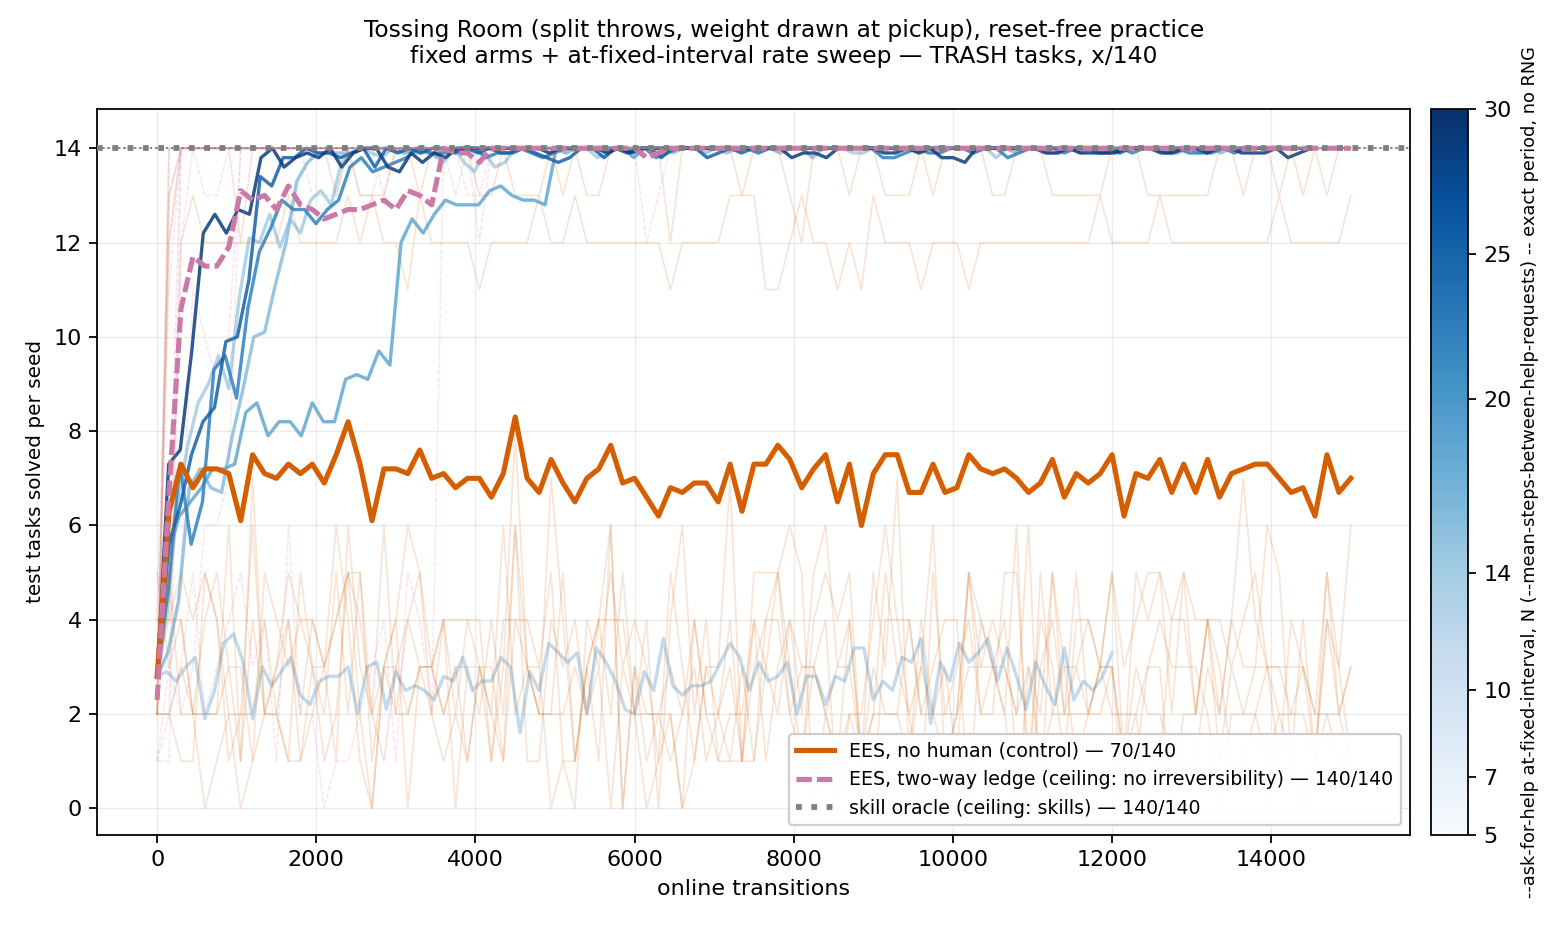
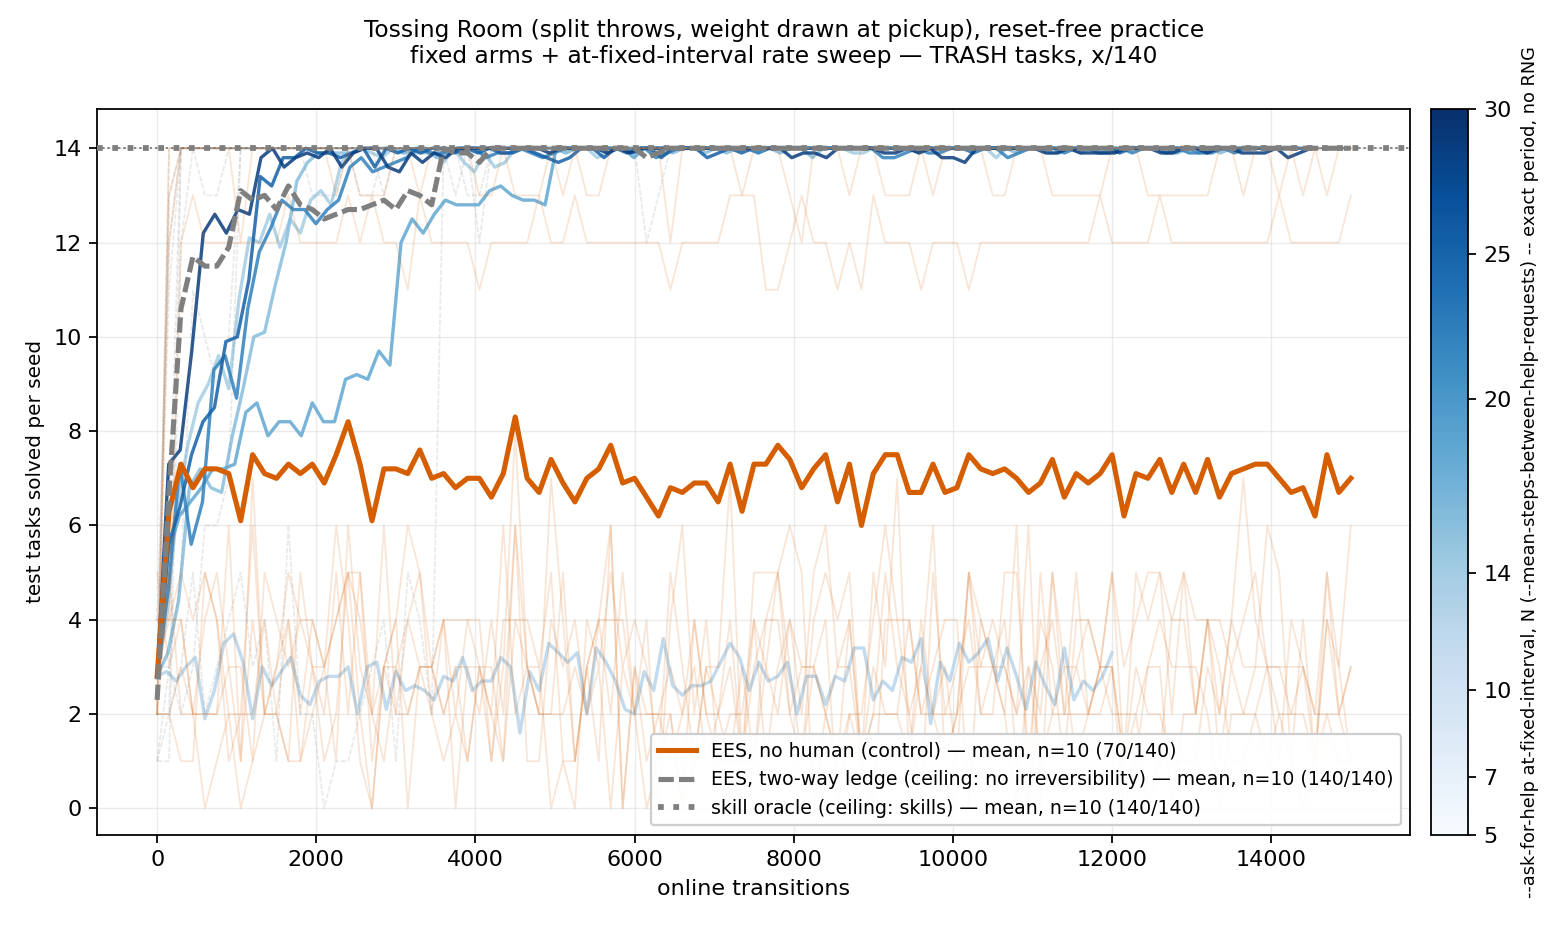
Fix two training-curve style deviations on the three fixed-interval panels
Both were inherited unchanged from #195's own human_ladder_curves.py, not introduced
here; Josh audited this PR's figures against CLAUDE.md's training-curve-style section
and asked for them fixed here (not on #195, whose published figures stay untouched).

1. two-way-ledge used a fourth hue (magenta) -- CLAUDE.md: "do not introduce a fourth
   hue; encode a second axis with linestyle instead", no stated carve-out for a ceiling
   arm that still learns. Fixed: two-way-ledge is now grey, matching skill-oracle,
   distinguished by its own dash pattern rather than a colour. Still drawn as a real
   curve, not flattened -- only the hue changed.
2. Fixed-arm legend entries showed the final score where CLAUDE.md's own example format
   asks for the seed count ("mean, n=10"). Fixed to "mean, n=10 (score)".

Scoped to overall/TRASH/RECYCLING only -- the dose-response and per-N-trajectory
figures don't carry two-way-ledge or the score-only legend pattern and regenerate
byte-identical, confirmed by diff.

Claude-Session: https://claude.ai/code/session_01YX4kv9fLBKzvmm3w25BvHF

diff --git a/analysis/practice_makes_perfect/human_ladder_curves.py b/analysis/practice_makes_perfect/human_ladder_curves.py
@@ -57,10 +57,15 @@ precedent #195's own module used.
 **Non-learners are drawn flat, not as curves.** `skill-oracle` never practises (no
 `--num-cycles` flag exists for it) and has a single evaluation checkpoint, so it is a
 horizontal reference line. `no-human` and `two-way-ledge` both learn and get real curves;
-`two-way-ledge` gets its own colour rather than the blue/orange assistance-axis pair, because
-it is a ceiling on the WORLD (irreversibility removed), not a "does an assistance mechanism
-exist" arm -- the same reasoning CLAUDE.md's colour rule already carves out for
-`skill-oracle`/`random-skills`.
+`two-way-ledge` is grey, matching `skill-oracle`, because it IS a ceiling arm in CLAUDE.md's
+sense (not the manipulation under test -- it removes irreversibility from the world, not
+"does an assistance mechanism exist"), distinguished from `skill-oracle` by linestyle rather
+than a fourth hue (CLAUDE.md: "do not introduce a fourth hue; encode a second axis with
+linestyle instead" -- no stated exception for a ceiling arm that still learns). It keeps its
+own curve rather than being flattened, since flattening it would misreport a real learner as
+a constant (see `_REFERENCE_ARMS`'s own comment) -- grey colour and a real curve are
+independent choices, and this module makes both explicitly rather than letting the second
+follow from the first.
 
 **Colour.** `no-human` is orange (`#D55E00`): the standing "nothing helps" colour, reused
 across every figure in this report. The rate sweep is blue-family (`Blues`, a sequential
@@ -68,7 +73,9 @@ colourmap from light N=5 to dark N=30): every rate-sweep arm has an assistance m
 available (`--ask-for-help at-fixed-interval`, always firing at a strictly positive rate
 here), which is what the blue/orange rule tracks -- not the specific rate, which the
 colourmap's lightness carries instead. `skill-oracle` is grey and dotted (reference line);
-`two-way-ledge` gets a third, unreserved colour since it sits on neither axis.
+`two-way-ledge` is ALSO grey (a deliberate fix over #195's module, which gave it a fourth,
+unreserved hue -- magenta), distinguished from `skill-oracle` by its own dash pattern
+rather than a colour CLAUDE.md's rule does not grant it.
 
 **The three training-curve figures (overall/TRASH/RECYCLING) carry all ten arms on ONE
 panel each** -- the three fixed arms plus all seven rate-sweep points, so a reader sees the
@@ -146,11 +153,20 @@ _V0_INTERVENTION_COST = 1.0
 
 # Colour carries role, per CLAUDE.md's training-curve-style convention: orange is the arm
 # nothing helps, and it is reused here from every other figure in the project rather than
-# picked fresh. `two-way-ledge` sits on neither the assistance axis nor the non-learner
-# reference set, so it gets its own colour, matching #151's module's precedent.
+# picked fresh. `two-way-ledge` is grey too -- CLAUDE.md reserves grey for "reference/
+# ceiling arms that aren't the manipulation under test" and separately says "do not
+# introduce a fourth hue; encode a second axis with linestyle instead", with no stated
+# carve-out for a ceiling that happens to still learn. #195's module gave it a fourth hue
+# (magenta) on the reasoning that it is "a ceiling on the world, not a non-learning
+# oracle" -- a real distinction, but the literal rule doesn't grant it a new colour for
+# that, only a linestyle: `two-way-ledge` keeps its own dash pattern
+# (distinct from `skill-oracle`'s dotted), which is exactly the "second axis via
+# linestyle" the rule asks for. It is still NOT in `_REFERENCE_ARMS` and still drawn as a
+# real curve, not flattened -- only its hue changed, not its rendering treatment (see
+# `_REFERENCE_ARMS`'s own comment for why flattening it would misreport it).
 _COLORS = {
     "no-human": "#D55E00",
-    "two-way-ledge": "#CC79A7",
+    "two-way-ledge": "#7F7F7F",
     "skill-oracle": "#7F7F7F",
 }
 _LINESTYLES = {
@@ -614,9 +630,13 @@ class HumanLadderCurves:
             xs = HumanLadderCurves.transitions(run=run)
             pooled = HumanLadderCurves.pooled_curve(run=run, family=family)
             scale = seed_total / pooled[-1][1]
+            # CLAUDE.md's own legend-entry example is "env resets -- mean, n=10": the
+            # seed count, not a score, is what lets a reader check n sums to the seed
+            # total without re-deriving it from the plot. The final pooled score is
+            # still useful, so it stays too -- just after the n=, never replacing it.
             label = (
-                f"{_LABELS[arm_name]} — "
-                f"{HumanLadderCurves.format_count(solved=pooled[-1][0], total=pooled[-1][1])}"
+                f"{_LABELS[arm_name]} — mean, n={len(run)} "
+                f"({HumanLadderCurves.format_count(solved=pooled[-1][0], total=pooled[-1][1])})"
             )
             if arm_name in _REFERENCE_ARMS:
                 for seed in sorted(run):

diff --git a/docs/experiment-logs/2026-08-11-human-ladder-fixed-interval-10x.md b/docs/experiment-logs/2026-08-11-human-ladder-fixed-interval-10x.md
@@ -65,6 +65,21 @@ bare percentage; use `PairedTests.sign_flip` for seed-paired comparisons; never 
 effect without a p-value; plot per-seed spread, not just a mean; distinguish what the
 experiment showed from what it was hoped to show.
 
+**Follow-up guidance, after the first version of this PR's figures shipped**: Josh audited
+the three training-curve panels against CLAUDE.md's training-curve-style section and found
+two deviations, both inherited unchanged from #195's own `human_ladder_curves.py` rather
+than introduced here. (1) `two-way-ledge` used a fourth hue (magenta) not licensed by
+CLAUDE.md's "do not introduce a fourth hue; encode a second axis with linestyle instead" --
+fixed by making it grey, matching `skill-oracle`, distinguished by linestyle (its own dash
+pattern vs. `skill-oracle`'s dotted) rather than colour, while keeping it as a real curve
+(not flattened, since it genuinely learns). (2) the fixed-arm legend entries showed the
+final pooled score (`107/300`) where CLAUDE.md's own example format asks for the seed count
+(`mean, n=10`) -- fixed to `mean, n=10 (107/300)`, keeping the score but no longer letting
+it stand in for `n`. Scoped to this PR's own figures only, per Josh's explicit instruction
+-- #195's already-published figures are untouched. The dose-response and per-N-trajectory
+figures needed no change: neither carries `two-way-ledge` or the score-only legend pattern,
+confirmed by the regenerated files being byte-identical to the pre-fix ones.
+
 ## Methods
 
 Four components, driven by `scripts/run_sweep.py` (one invocation per component; the N axis
